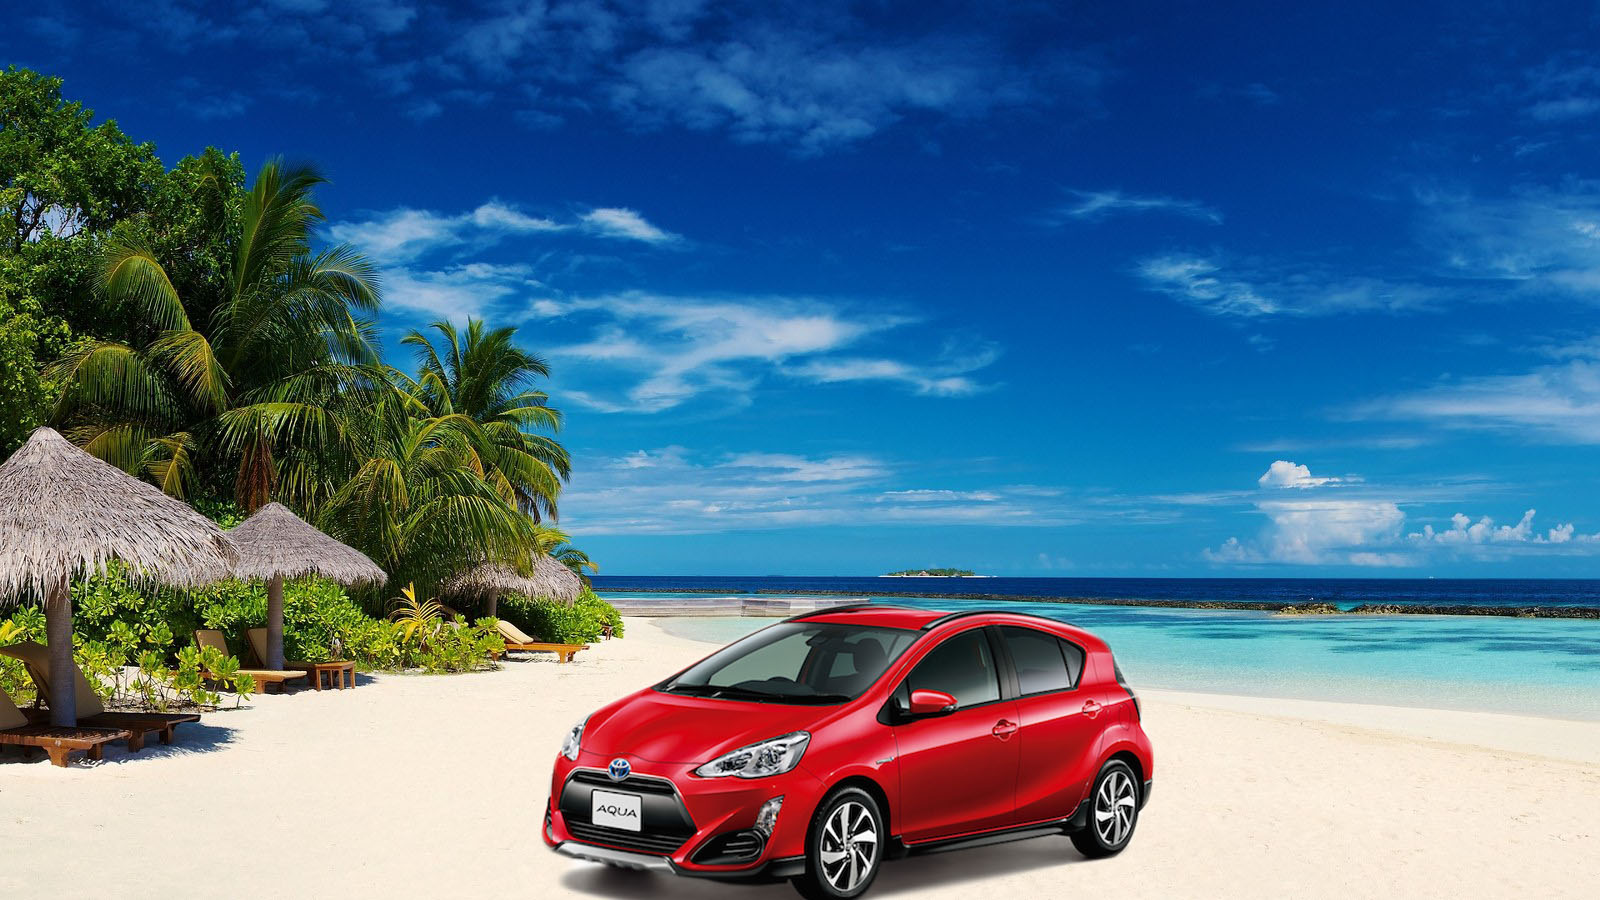
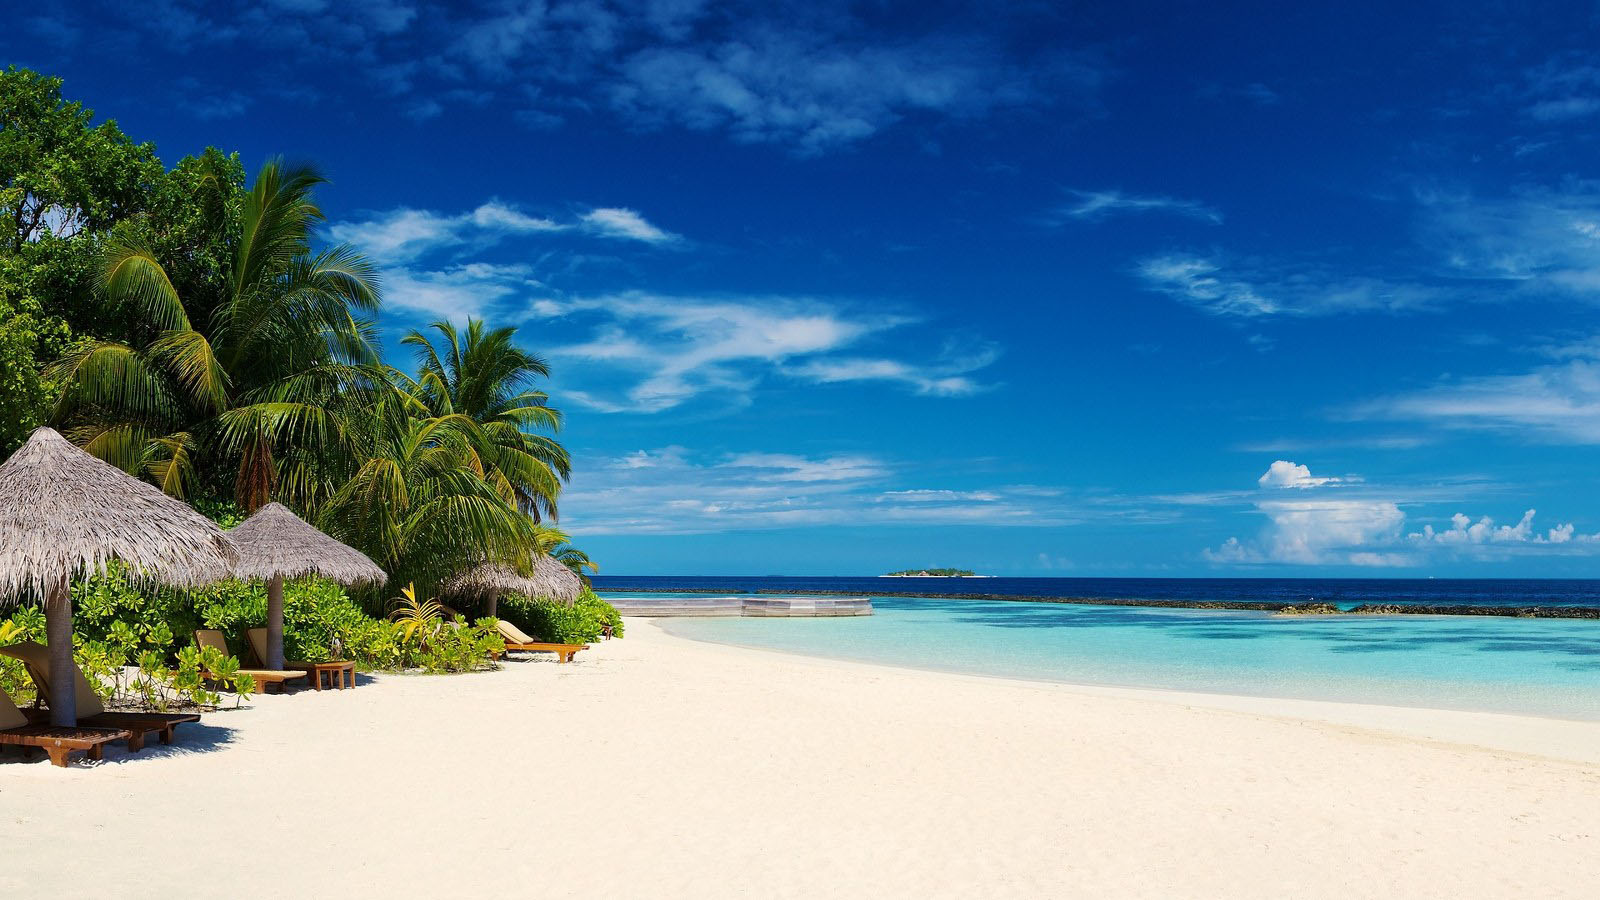
Thien_20210903

Changed region(s): [[0.3125, 0.6533, 0.7188, 1.0]]

diff --git a/css/flow.css b/css/flow.css
@@ -172,7 +172,7 @@
 		height: 400px;
 	}
     .block_step > p{
-        border-bottom: 2px solid #edad3e;
+        border-bottom: 2px solid #0067b4;
         width: 100%;
         padding: 15px 0px;
     }
@@ -229,7 +229,7 @@
 		display: inline-flex;
 		margin: auto;
 		padding: 12px 20px;
-		background-color: #edad3e;
+		background-color: #0067b6;
 		color: #fff;
 		box-shadow: 3px 3px 3px hsl(0deg 0% 49%);
 		justify-content: space-around;
@@ -241,7 +241,7 @@
 		margin-top: 30px;
 	}
 	.btn_lastct:hover{
-		background-color:#0067b6;
+		background-color:#edad3e;
 	}
 
 

diff --git a/priusa.html b/priusa.html
@@ -171,7 +171,7 @@
 	<main>
 		<div class="car-line" id="priusa">
 			<div class="car-background">
-				<img src="images/list-car/prius@-background.jpg" width="2560" height="1136" alt="prius-background"/>
+				<img src="images/list-car/rentacar.jpg" width="2560" height="1136" alt="prius-background"/>
 			</div>
 			<div class="car-title">
 				<h2 class="fadeinzoom">PRIUSα</h2>
